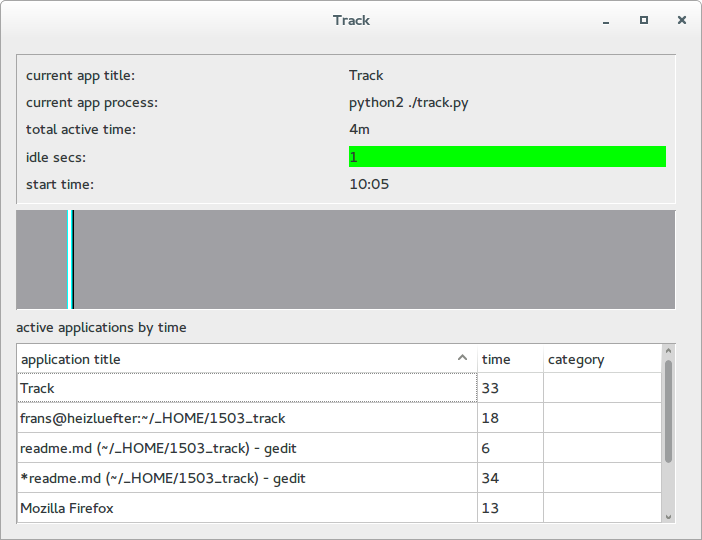
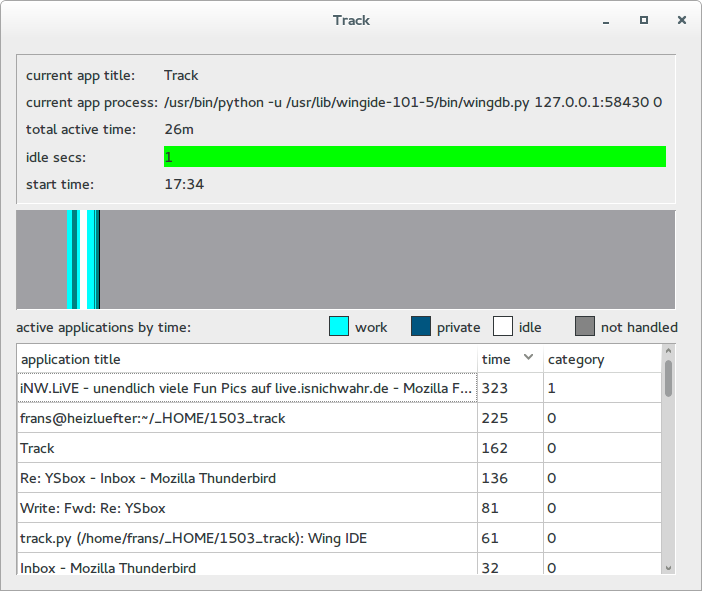
update release notes and screenshot

diff --git a/progress.md b/progress.md
@@ -16,13 +16,13 @@
 - [ ] support Windows
 - [ ] save day-log and resume on restart
 - [ ] allow detailed per minute information when hovering over time bar
-- [ ] work/private/inactive states in time bar
 - [ ] support regex rules for work/private
-- [ ] sort application table
 
 ### release notes
 
 #### 2015.03.22
+- [x] work/private/inactive states in time bar
+- [x] sort application table
 - [x] show time bar indicating active and inactive times
 - [x] show list with active applications
 - [x] show active time, start time
